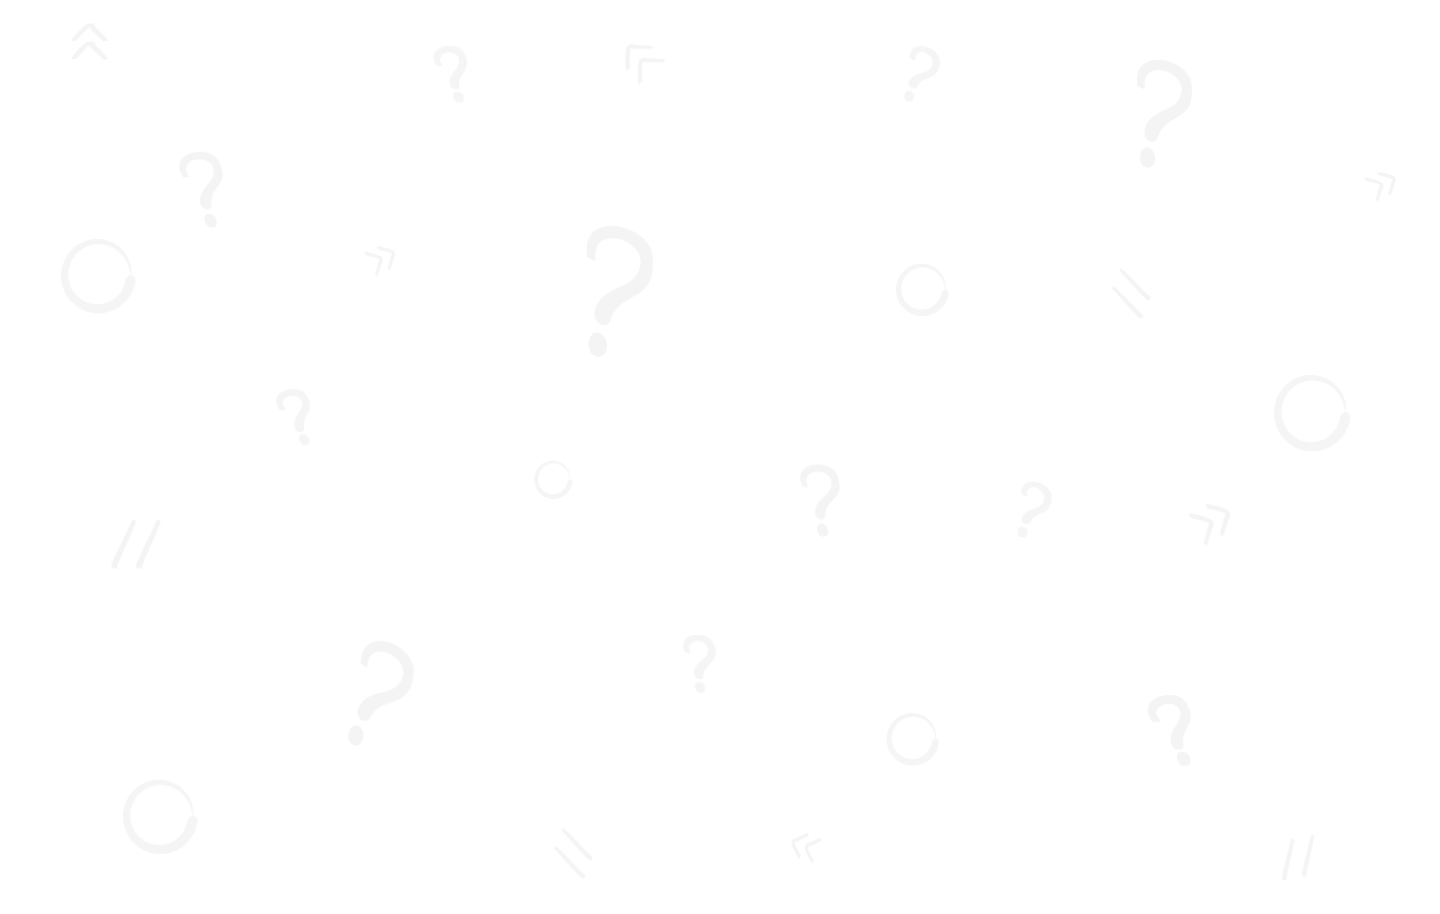
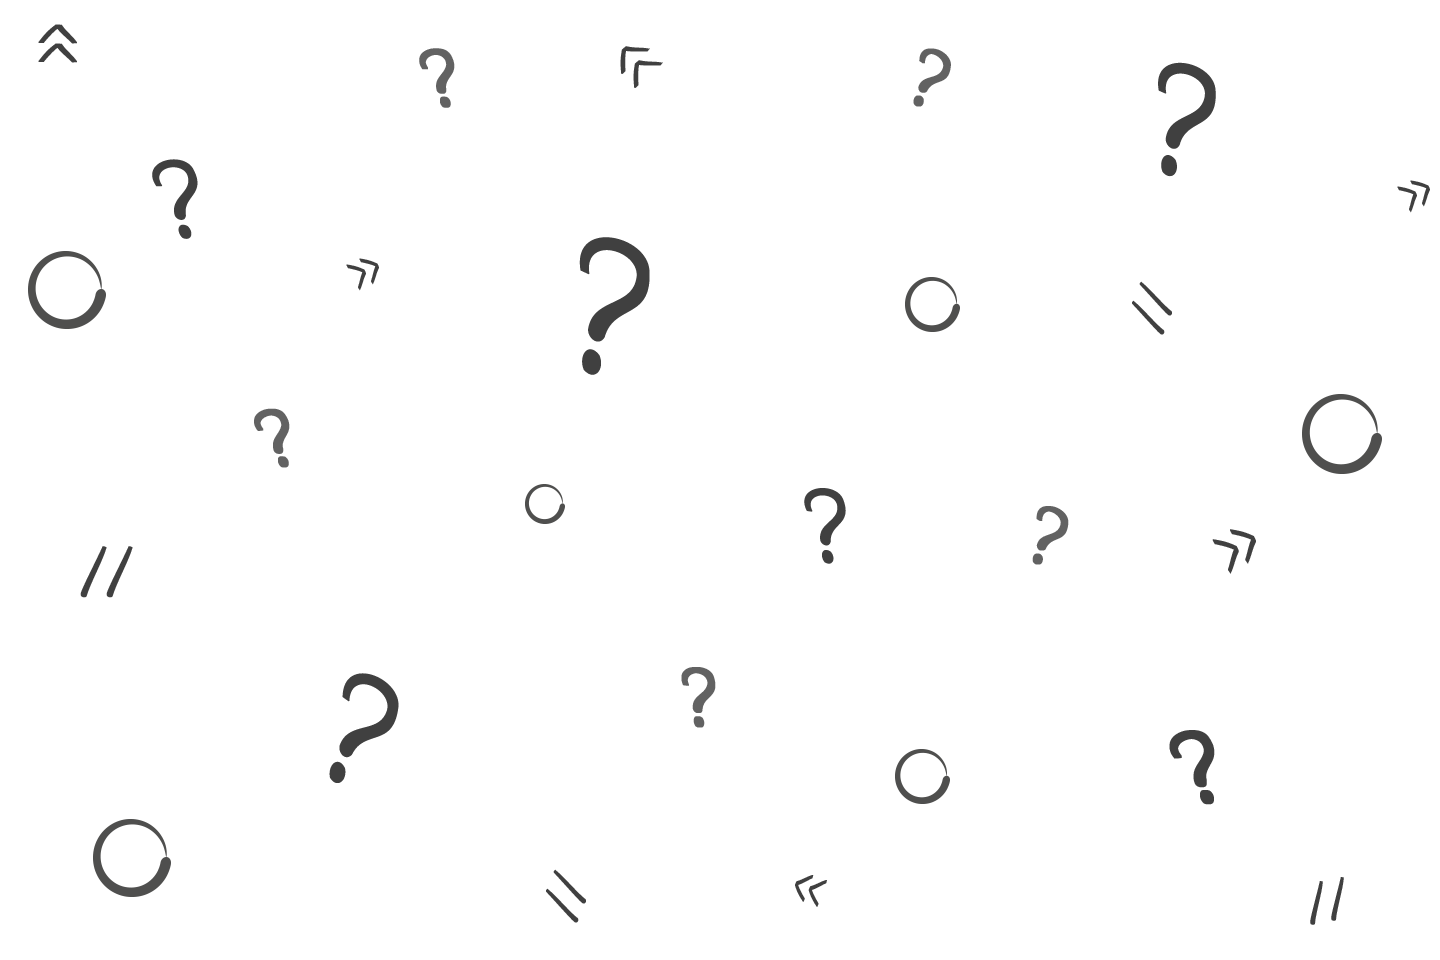
fix: fix header section background

diff --git a/css/style.css b/css/style.css
@@ -66,6 +66,7 @@ section,
    background-image: url(../img/background.png);
    background-size: cover;
    background-repeat: no-repeat;
+   opacity: 0.06;
    z-index: -2;
 }
 
@@ -80,7 +81,7 @@ section,
 .header-img {
    position: absolute;
    top: 55px;
-   left: 296px;
+   left: 297px;
    z-index: -1;
 }
 
@@ -102,11 +103,15 @@ section,
    border: none;
    display: block;
    margin-top: 40px;
-   padding: 12px 24px;
+   /* padding: 12px 23px 11px 25px; */
+   width: 148px;
+   height: 49px;
+   text-align: center;
    background-color: var(--main-color);
 
    font-family: "Open Sans", sans-serif;
    font-size: 16px;
+   line-height: 160%;
    color: var(--white-color);
    font-weight: 700;
    text-transform: uppercase;
